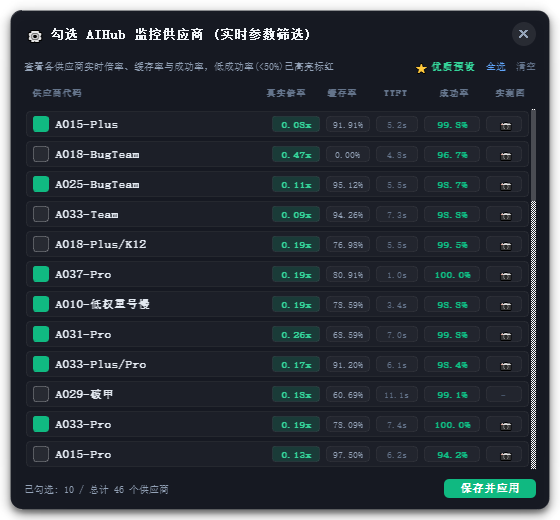
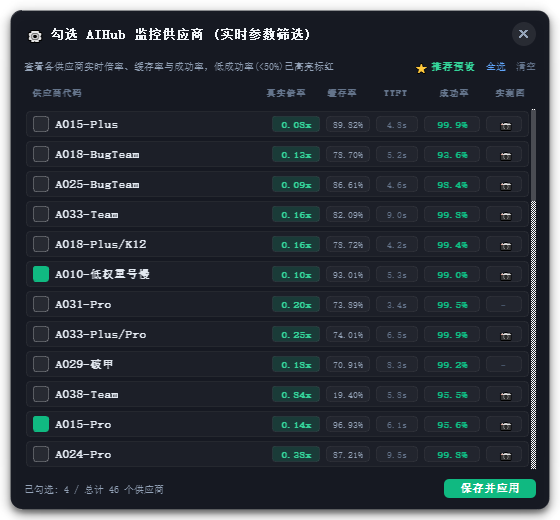
feat(square): display multiple rows for multi-model groups and align recommended presets

diff --git a/core/square_client.py b/core/square_client.py
@@ -35,53 +35,73 @@ def format_duration(ms: Optional[float]) -> str:
 
 # Default recommended groups to monitor if user hasn't configured
 DEFAULT_SELECTED_GROUPS = [
-    "gpt-已过鹈鹕测试不降智",
-    "gpt-特惠分组",
-    "pro专享",
-    "terra分组",
     "混池优惠",
-    "claude-ultra",
-    "官方max",
-    "aws-cc",
     "ds-v4.1可用",
-    "ds-v4.1",
+    "terra分组",
+    "gpt-已过鹈鹕测试不降智",
+    "cc1",
 ]
 
 # Default recommended models to monitor if user hasn't configured
 DEFAULT_SELECTED_MODELS = [
-    "gpt-6-astra",
     "claude-opus-5-5",
     "deepseek-v4.1-flash",
-    "gpt-5.5",
+    "gpt-6-astra",
+    "gpt-6.1-sol",
 ]
 
 # Friendly display names for common models
 MODEL_DISPLAY_NAMES = {
     "gpt-6-astra": "GPT-6 Astra",
+    "gpt-6.1-sol": "GPT-6.1 Sol",
     "claude-opus-5-5": "Claude Opus 5.5",
     "deepseek-v4.1-flash": "DS-v4.1 Flash",
     "gpt-5.5": "GPT-5.5",
     "claude-sonnet-5": "Claude Sonnet 5",
+    "claude-sonnet-5-5": "Claude Sonnet 5.5",
+    "claude-sonnet-4-6": "Claude Sonnet 4.6",
     "gpt-5.6-terra": "GPT-5.6 Terra",
+    "gpt-5.6-sol": "GPT-5.6 Sol",
+    "gpt-5.6-luna": "GPT-5.6 Luna",
     "gpt-6-sol": "GPT-6 Sol",
     "claude-ultra": "Claude Ultra",
+    "grok-4.7": "Grok 4.7",
+    "glm-5.3": "GLM-5.3",
+    "kimi-k3": "Kimi K3",
 }
 
 # Default mapping of group to primary monitored focus model
 DEFAULT_GROUP_MODELS = {
-    "gpt-已过鹈鹕测试不降智": "gpt-6-astra",
+    "cc-逆向": "claude-sonnet-4-6",
     "混池优惠": "gpt-6-astra",
-    "gpt-特惠分组": "gpt-6-astra",
-    "pro专享": "gpt-6-astra",
-    "terra分组": "gpt-6-astra",
-    "限制宽松gpt": "gpt-6-astra",
-    "ds-v4.1可用": "deepseek-v4.1-flash",
-    "ds-v4没有4.1，4.1有专门分组": "deepseek-v4.1-flash",
+    "deepseek-v4": "deepseek-v4-flash",
     "ds-v4.1": "deepseek-v4.1-flash",
+    "ds-v4.1可用": "deepseek-v4.1-flash",
+    "glm5.3与kimik3": "glm-5.3",
+    "grok": "grok-4.7",
+    "terra分组": "gpt-6-astra",
+    "华强北claude": "claude-fable-5",
+    "gpt-特惠分组": "gpt-6-astra",
+    "codex": "gpt-6-astra",
+    "codex-备用": "gpt-6-astra",
+    "codex-新": "gpt-6-astra",
+    "codex1": "gpt-6-astra",
+    "gemini": "gemini-3.7-flash",
+    "gpt-已过鹈鹕测试不降智": "gpt-6-astra",
+    "pro专享": "gpt-6-astra",
+    "限制宽松gpt": "gpt-6-astra",
+    "cc-kiro": "claude-fable-5",
     "cc1": "claude-opus-5-5",
-    "claude-ultra": "claude-ultra",
-    "官方max": "gpt-5.5",
+    "cc2": "claude-fable-5",
+    "default": "claude-fable-5",
     "aws-cc": "claude-opus-5-5",
+    "claude-ultra": "claude-fable-5",
+    "luna专用分组": "gpt-5.4-mini",
+    "官方max": "claude-fable-5",
+    "gpt-image-2": "gpt-image-2",
+    "按次分组": "claude-haiku4.5",
+    "4k-image": "gpt-image-1",
+    "image-4k超清": "gpt-image-2",
 }
 
 # Real benchmarks strictly matching Square official website modal data ([详情 >])
@@ -424,7 +444,7 @@ class SquareAPIClient:
             set(selected_model_names)
             | set(group_models_mapping.values())
             | set(DEFAULT_GROUP_MODELS.values())
-            | {"gpt-6-astra", "deepseek-v4.1-flash", "claude-opus-5-5", "gpt-5.5"}
+            | {"gpt-6-astra", "gpt-6.1-sol", "deepseek-v4.1-flash", "claude-opus-5-5", "gpt-5.5"}
         )
         needed_models.discard(None)
         needed_models.discard("")
@@ -507,11 +527,11 @@ class SquareAPIClient:
             short_name = static_def.get("short_name", g_name[:6])
             color = static_def.get("color") or ("#10B981" if ratio < 0.2 else ("#38BDF8" if ratio < 0.4 else "#F59E0B"))
 
-            # Find matching models that user checked AND that belong to this group
+            # Find matching models that user checked AND that belong to this group (in user's checked order)
             matching_models = []
-            for m in raw_models:
-                m_name = m.get("model_name", "")
-                if m_name in selected_model_names:
+            for m_name in selected_model_names:
+                m = next((item for item in raw_models if item.get("model_name") == m_name), None)
+                if m:
                     enable_groups = m.get("enable_groups", [])
                     if g_name in enable_groups:
                         m_ratio = float(m.get("model_ratio", 1.0))
@@ -525,61 +545,46 @@ class SquareAPIClient:
                             "breakdown": f"{disp_name} (官网倍率 {m_ratio}x × 分组 {ratio}x = 综合 {effective_ratio:.3f}x)",
                         })
 
-            # Focus model for this group (either mapped, or first matching checked model, or default)
-            target_model_code = group_models_mapping.get(g_name)
-
-            focus_model_obj = None
-            if target_model_code:
-                focus_model_obj = next((m for m in matching_models if m["name"] == target_model_code), None)
-                if not focus_model_obj:
-                    # Look in raw_models
-                    raw_m = next((m for m in raw_models if m.get("model_name") == target_model_code), None)
-                    if raw_m:
-                        m_ratio = float(raw_m.get("model_ratio", 1.0))
-                        effective_ratio = ratio * m_ratio
-                        disp_name = MODEL_DISPLAY_NAMES.get(target_model_code, target_model_code)
-                        focus_model_obj = {
-                            "name": target_model_code,
-                            "display_name": disp_name,
-                            "model_ratio": m_ratio,
-                            "effective_ratio": effective_ratio,
-                            "breakdown": f"{disp_name} (官网 {m_ratio}x × 分组 {ratio}x = 综合 {effective_ratio:.2f}x)",
-                        }
-            if not focus_model_obj and matching_models:
-                focus_model_obj = matching_models[0]
-            if not focus_model_obj:
-                def_code = DEFAULT_GROUP_MODELS.get(g_name, "gpt-6-astra")
-                disp_name = MODEL_DISPLAY_NAMES.get(def_code, def_code)
-                focus_model_obj = {
-                    "name": def_code,
+            # If user checked models that belong to this group, generate a row for EACH checked model!
+            if matching_models:
+                models_to_render = matching_models
+            else:
+                target_model_code = group_models_mapping.get(g_name) or DEFAULT_GROUP_MODELS.get(g_name, "gpt-6-astra")
+                disp_name = MODEL_DISPLAY_NAMES.get(target_model_code, target_model_code)
+                models_to_render = [{
+                    "name": target_model_code,
                     "display_name": disp_name,
                     "model_ratio": 1.0,
                     "effective_ratio": ratio,
                     "breakdown": f"{disp_name} (综合 {ratio:.2f}x)",
-                }
+                }]
 
-            live_bench = get_group_bench(g_name, target_model=focus_model_obj["name"])
+            for model_obj in models_to_render:
+                m_code = model_obj["name"]
+                m_disp = model_obj["display_name"]
+                live_bench = get_group_bench(g_name, target_model=m_code)
 
-            monitored_rows.append({
-                "group_name": g_name,
-                "short_name": short_name,
-                "color": color,
-                "ratio": ratio,
-                "ratio_str": f"{ratio:.2f}x",
-                "desc": desc,
-                "tps": live_bench.get("tps") or static_def.get("tps", "32.0 t/s"),
-                "ttft": live_bench.get("ttft") or static_def.get("ttft", "5.00s"),
-                "latency": live_bench.get("latency") or static_def.get("latency", "18.00s"),
-                "success_rate": live_bench.get("success_rate") if live_bench.get("success_rate") is not None else static_def.get("success_rate", 100.0),
-                "series": live_bench.get("series", []),
-                "bar_count": live_bench.get("bar_count", static_def.get("bar_count", 16)),
-                "focus_model": focus_model_obj["name"],
-                "focus_model_display": focus_model_obj["display_name"],
-                "effective_ratio": focus_model_obj["effective_ratio"],
-                "effective_ratio_str": f"{focus_model_obj['effective_ratio']:.2f}x",
-                "models": matching_models,
-                "models_str": ", ".join([m["display_name"] for m in matching_models]) if matching_models else "（无勾选模型）",
-            })
+                monitored_rows.append({
+                    "group_name": g_name,
+                    "short_name": short_name,
+                    "color": color,
+                    "ratio": ratio,
+                    "ratio_str": f"{ratio:.2f}x",
+                    "desc": desc,
+                    "tps": live_bench.get("tps") or static_def.get("tps", "32.0 t/s"),
+                    "ttft": live_bench.get("ttft") or static_def.get("ttft", "5.00s"),
+                    "latency": live_bench.get("latency") or static_def.get("latency", "18.00s"),
+                    "success_rate": live_bench.get("success_rate") if live_bench.get("success_rate") is not None else static_def.get("success_rate", 100.0),
+                    "series": live_bench.get("series", []),
+                    "bar_count": live_bench.get("bar_count", static_def.get("bar_count", 16)),
+                    "focus_model": m_code,
+                    "focus_model_display": m_disp,
+                    "effective_ratio": model_obj["effective_ratio"],
+                    "effective_ratio_str": f"{model_obj['effective_ratio']:.2f}x",
+                    "breakdown": model_obj.get("breakdown", ""),
+                    "models": matching_models,
+                    "models_str": ", ".join([m["display_name"] for m in matching_models]) if matching_models else "（无勾选模型）",
+                })
 
         result = {
             "success": True,

diff --git a/ui/square_filter_dialog.py b/ui/square_filter_dialog.py
@@ -14,6 +14,7 @@ from PyQt5.QtCore import Qt, pyqtSignal
 from PyQt5.QtGui import QColor, QFont, QCursor
 
 from core.square_client import DEFAULT_SELECTED_GROUPS, DEFAULT_SELECTED_MODELS, DEFAULT_GROUP_MODELS
+from core.aihub_client import DEFAULT_SELECTED_PROVIDERS
 
 SCROLL_STYLE = """
     QScrollArea {
@@ -480,6 +481,12 @@ class SquareFilterDialog(QDialog):
             cb.setChecked(name in DEFAULT_SELECTED_GROUPS)
         for name, cb in self.model_checkboxes.items():
             cb.setChecked(name in DEFAULT_SELECTED_MODELS)
+        for g_name, combo in self.group_model_combos.items():
+            cur_focus = DEFAULT_GROUP_MODELS.get(g_name)
+            if cur_focus:
+                idx = combo.findData(cur_focus)
+                if idx >= 0:
+                    combo.setCurrentIndex(idx)
 
     def save_and_apply(self):
         selected_groups = [name for name, cb in self.group_checkboxes.items() if cb.isChecked()]
@@ -595,11 +602,11 @@ class AIHubFilterDialog(QDialog):
         act_row.addWidget(tip_lbl)
         act_row.addStretch()
 
-        btn_good = QPushButton("⭐ 优质预设")
+        btn_good = QPushButton("⭐ 推荐预设")
         btn_good.setFixedHeight(20)
         btn_good.setCursor(Qt.PointingHandCursor)
         btn_good.setStyleSheet("font-size: 10px; color: #34D399; background: transparent; border: none; font-weight: 600;")
-        btn_good.setToolTip("自动勾选倍率≤0.20且成功率≥90%的优质供应商")
+        btn_good.setToolTip("自动勾选推荐监控的优质供应商")
         btn_good.clicked.connect(self.apply_good_preset)
 
         btn_all = QPushButton("全选")
@@ -792,13 +799,7 @@ class AIHubFilterDialog(QDialog):
 
     def apply_good_preset(self):
         for code, cb in self.provider_checkboxes.items():
-            p = self.provider_data_map.get(code, {})
-            mult = float(p.get("rate_multiplier", 1.0))
-            sr = float(p.get("success_rate", 0.0))
-            avail = bool(p.get("available", False))
-            # Pick available providers with rate <= 0.20 and success rate >= 90%
-            is_good = avail and (mult <= 0.20) and (sr >= 90.0)
-            cb.setChecked(is_good)
+            cb.setChecked(code in DEFAULT_SELECTED_PROVIDERS)
         self.update_count_label()
 
     def save_and_apply(self):

diff --git a/core/aihub_client.py b/core/aihub_client.py
@@ -32,6 +32,15 @@ def format_iso_timestamp(iso_str: Optional[str]) -> str:
             return iso_str
 
 
+# Default recommended providers matching user selection
+DEFAULT_SELECTED_PROVIDERS = [
+    "A010-低权重号慢",
+    "A015-Pro",
+    "A009-Pro",
+    "A009-Pro/Team",
+]
+
+
 class AIHubClient:
     """Client for querying AIHub provider metrics, cache rate, success rate, and pelican test images."""
 
@@ -58,13 +67,13 @@ class AIHubClient:
         self.session.headers.update({"User-Agent": "Mozilla/5.0 (Windows NT 10.0; Win64; x64)"})
         self.history_metadata_cache: Dict[int, Any] = {}
 
-    def get_selected_providers(self) -> Optional[List[str]]:
+    def get_selected_providers(self) -> List[str]:
         """Get list of user-selected provider codes."""
         if self.config:
             sel = self.config.get("aihub_selected_providers")
             if sel and isinstance(sel, list):
                 return sel
-        return None  # Will default to top stable candidates
+        return list(DEFAULT_SELECTED_PROVIDERS)
 
     def set_selected_providers(self, providers: List[str]):
         """Save user-selected provider codes."""
